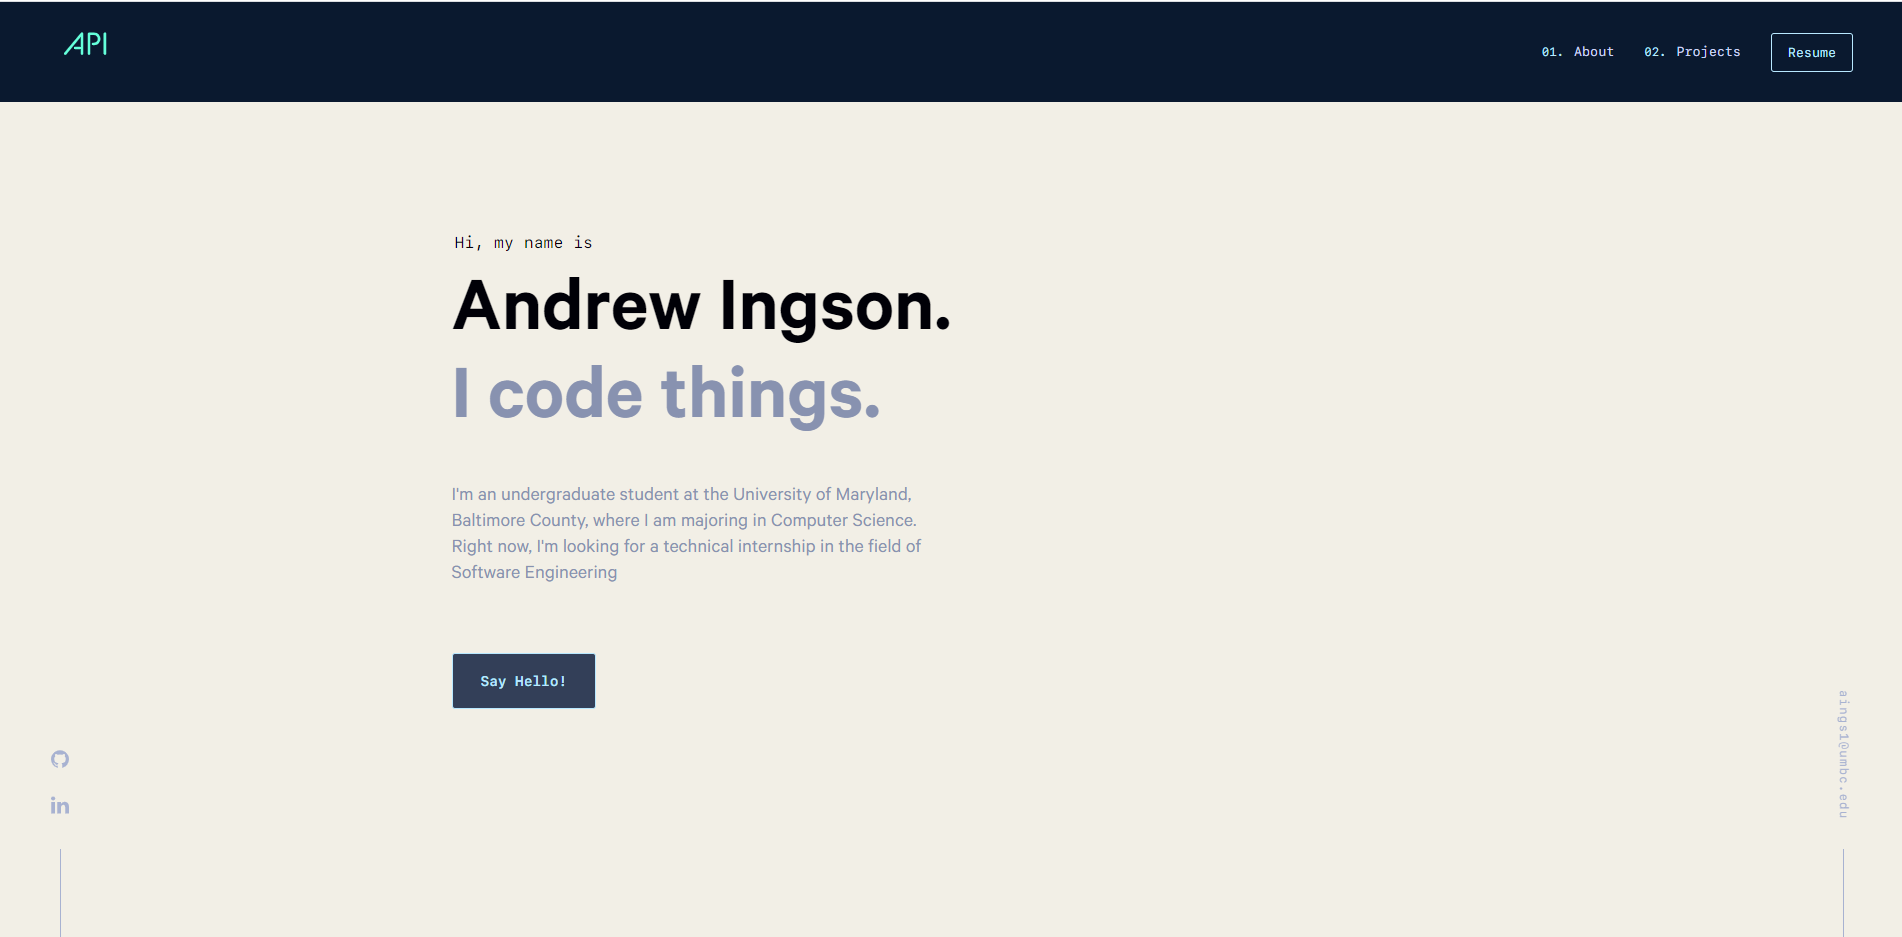
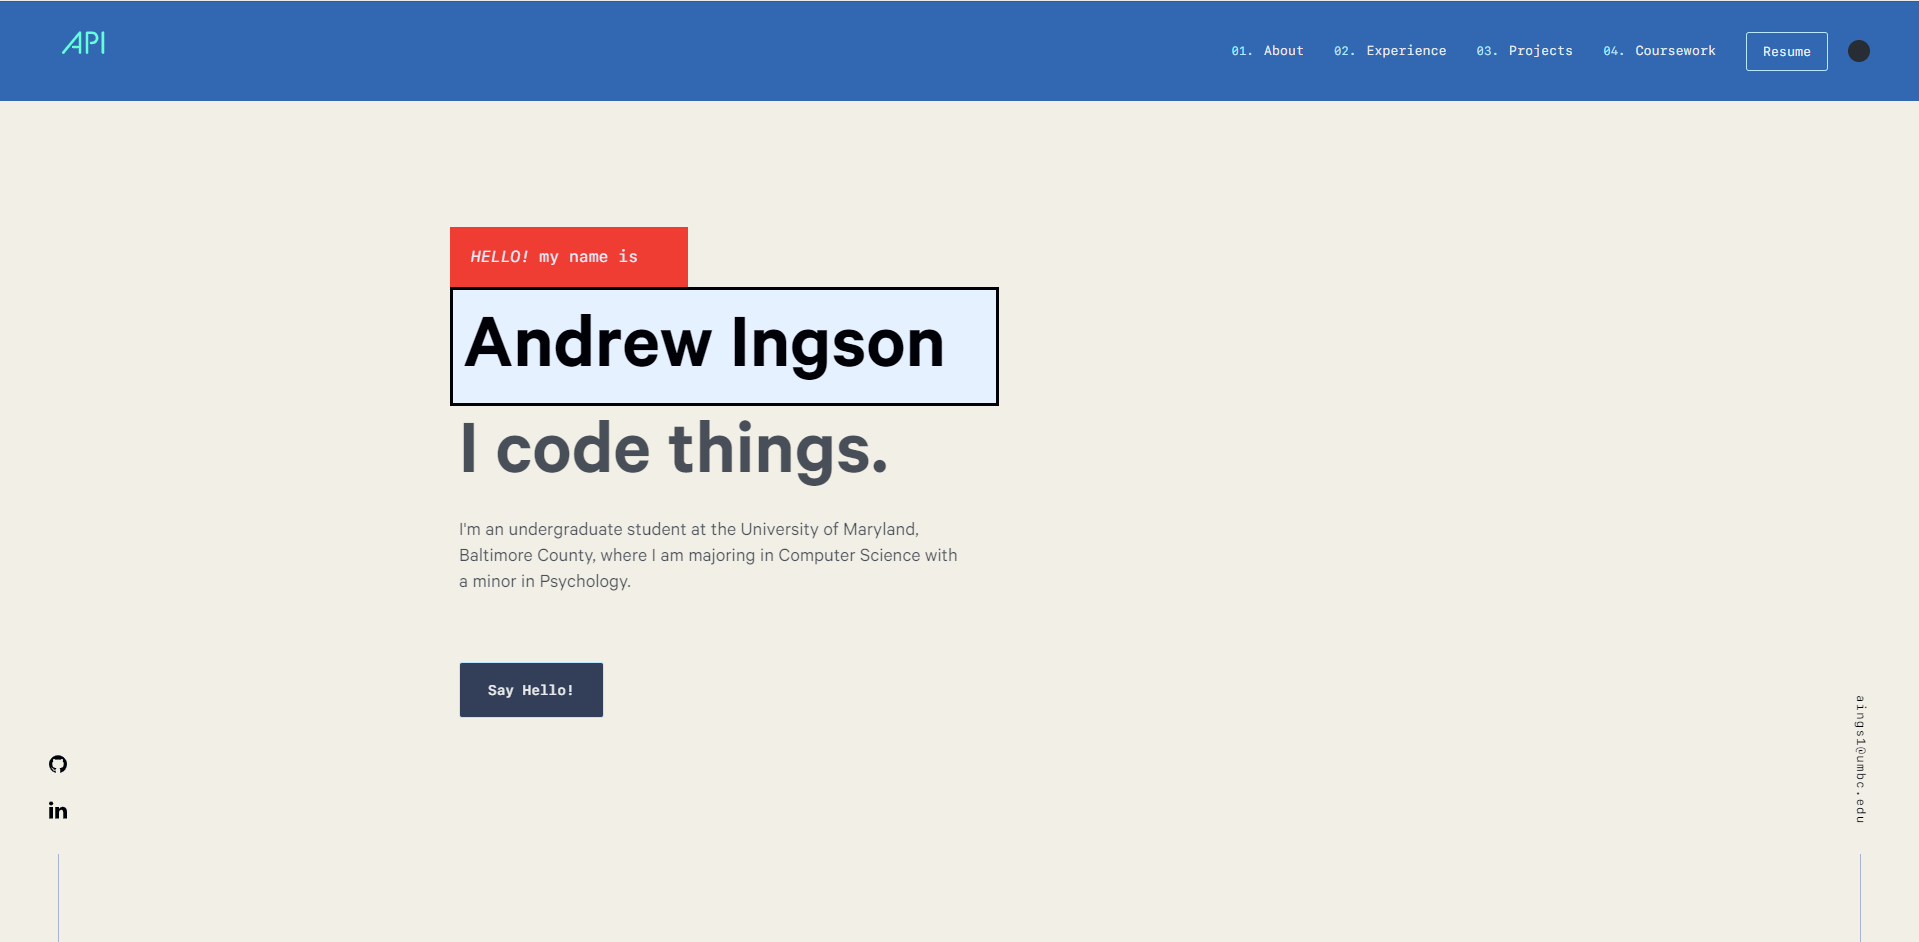
Update showcase pictures

Changed region(s): [[0.0, 0.0, 1.0, 0.1238], [0.2171, 0.2166, 0.5273, 0.619], [0.2482, 0.6809, 0.3102, 0.7737]]

diff --git a/README.md b/README.md
@@ -1,3 +1,4 @@
+<!--suppress HtmlDeprecatedAttribute -->
 <div align="center">
   <img alt="Logo" src="https://github.com/ADMARIl/aingson.xyz/raw/develop/src/images/logo.png" width="100" />
 </div>
@@ -18,6 +19,8 @@
     <img src="https://zeit.co/button" alt="Zeit Deploy" />
   </a>
 </div>
+
+![code](https://raw.githubusercontent.com/ADMARIl/aingson.xyz/develop/src/images/og-shadow.png)
 
 ## Installation
 
